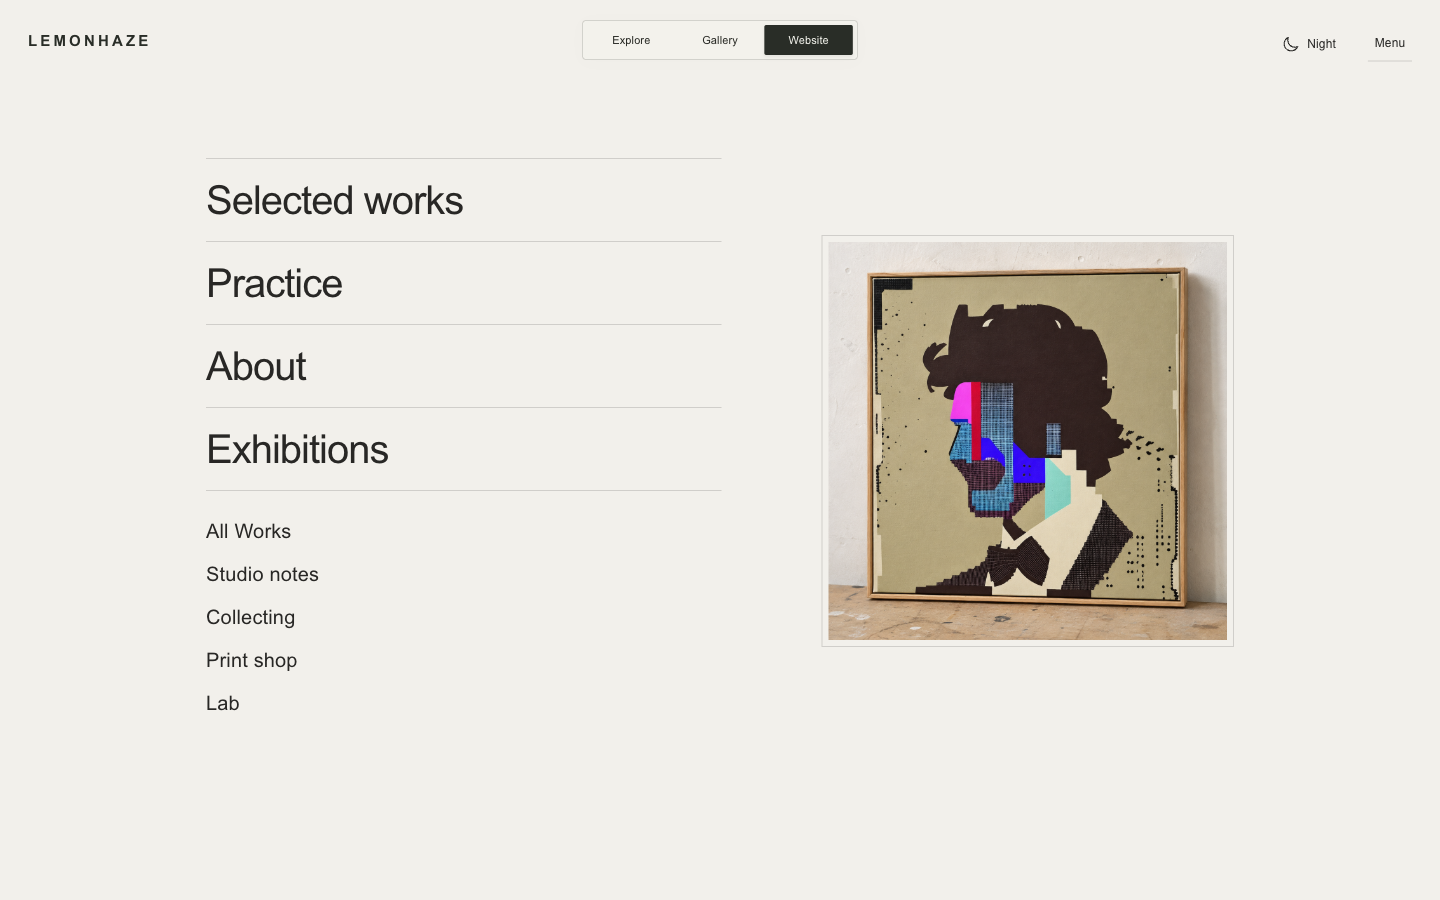
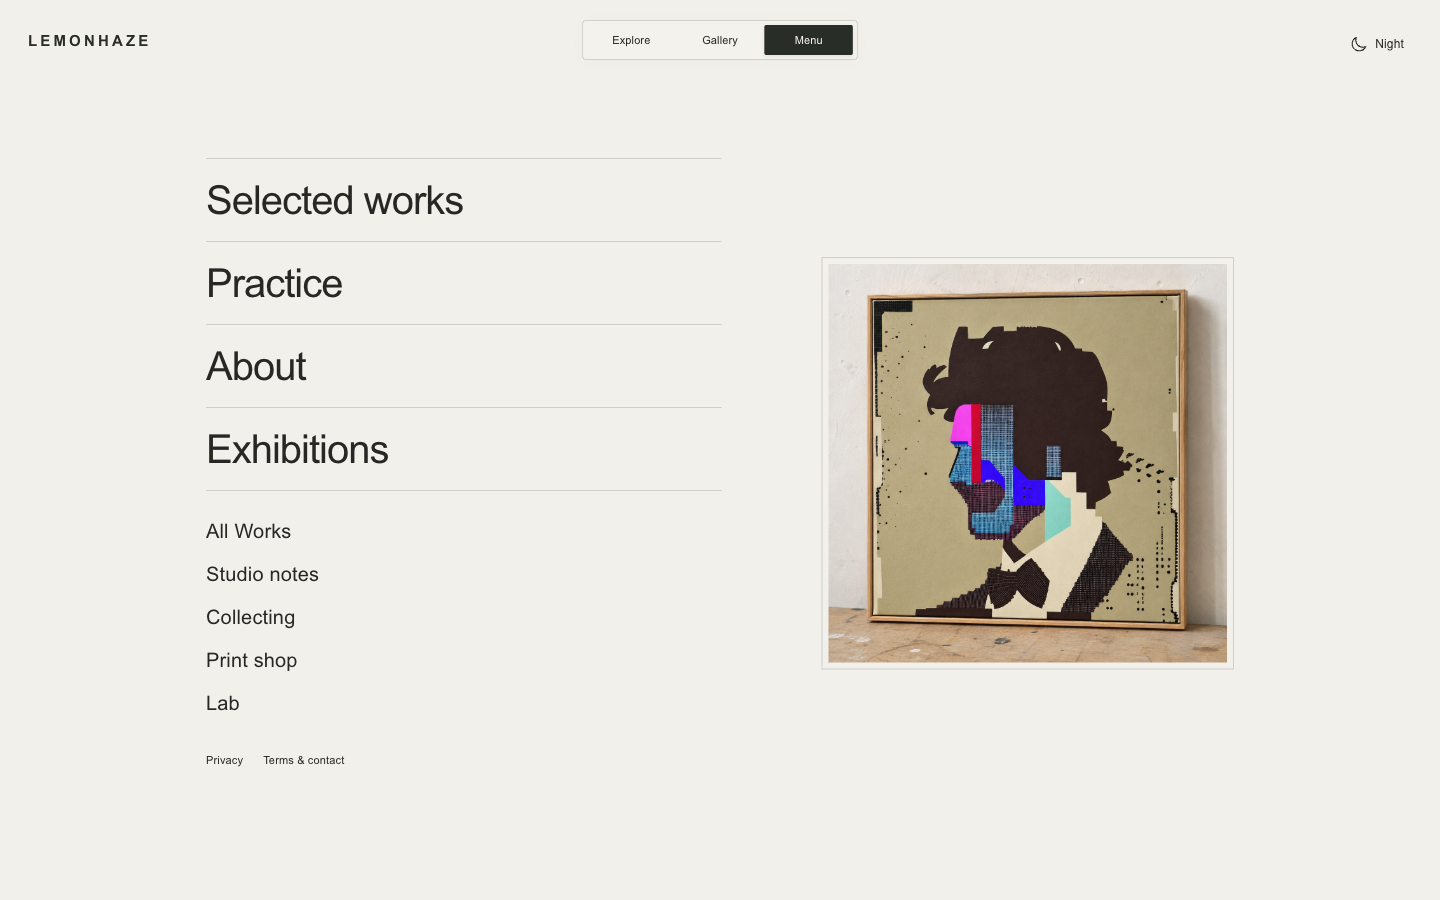
Unify navigation under central Menu and move appearance to the right

Changed region(s): [[0.5625, 0.2489, 0.875, 0.7467], [0.9062, 0.0311, 0.9688, 0.0622], [0.1875, 0.84, 0.2188, 0.8711]]

diff --git a/src/immersive/modes.css b/src/immersive/modes.css
@@ -68,7 +68,6 @@ html[data-view=website] .website-selected img{outline:0;box-shadow:0 0 0 12px va
 @media(max-width:1100px){html[data-view=website] .website-entry-intro{grid-template-columns:1fr}html[data-view=website] .website-entry-intro nav{margin-top:14px}}
 @media(max-width:767px){
  #site-wordmark{left:18px;top:87px;font-size:12px;letter-spacing:.18em}
- html[data-view=website] #menu-toggle{position:fixed;top:72px;right:14px;z-index:161;margin:0;background:var(--page);color:var(--ink);border:1px solid var(--line);border-radius:2px}
  html[data-view=website] body>main>header.site-header{display:flex;min-height:154px;padding:124px 22px 12px;align-items:center}
  html[data-view=website] body:has(.website-entry) .site-header{height:126px;min-height:126px;padding:0}
  html[data-view=website] #sidebar{top:120px;height:calc(100dvh - 120px);width:min(320px,calc(100vw - 56px));z-index:150}
@@ -95,9 +94,9 @@ html[data-view=website] .website-selected img{outline:0;box-shadow:0 0 0 12px va
 .website-studio-image figcaption{font-size:11px;margin-top:16px;opacity:.65}
 @media(max-width:900px){.website-index{grid-template-columns:1fr;gap:32px}.website-index-pages a{padding:16px 0}.website-studio-image{max-width:360px}.website-studio-image img{max-height:44dvh;object-position:left}}
 
-/* Shared Website navigation: a dismissible drawer, never a second page column. */
+/* Menu in the central mode bar owns navigation; retire the duplicate corner trigger. */
+html body #menu-toggle{display:none!important}
 html:not([data-view=website]) #menu-toggle,html:not([data-view=website]) #mobile-backdrop{display:none!important}
-html[data-view=website] body>#menu-toggle{display:block!important;position:fixed;z-index:165;top:25px;right:28px;margin:0;padding:10px 2px;border:0;border-bottom:1px solid var(--line);border-radius:0;background:var(--page);color:var(--ink);font:12px/1.3 Arial,sans-serif;min-width:44px}
 html[data-view=website][data-presentation] body #sidebar{position:fixed!important;inset:88px 0 0 auto!important;width:min(360px,100vw)!important;min-width:0!important;max-width:100vw!important;height:calc(100dvh - 88px)!important;flex-basis:auto!important;z-index:164;transform:none!important;border-right:0;border-left:1px solid var(--line);visibility:visible;transition:transform .25s}
 html[data-view=website][data-presentation] body #sidebar[class~="-translate-x-full"]{transform:translateX(100%)!important;visibility:hidden;pointer-events:none}
 html[data-view=website][data-presentation] #sidebar>a:first-child{display:none!important}
@@ -117,7 +116,6 @@ html[data-view=website] .website-index-pages a{font-size:clamp(26px,3vw,40px);pa
 html[data-view=website] .website-studio-image img{max-height:58dvh}
 @media(prefers-reduced-motion:reduce){html[data-view=website] #sidebar{transition:none!important}}
 @media(max-width:767px){
- html[data-view=website] body>#menu-toggle{top:77px;right:20px;padding:7px 2px;font-size:12px}
  html[data-view=website][data-presentation] body #sidebar{top:124px!important;height:calc(100dvh - 124px)!important;width:min(360px,100vw)!important}
  html[data-view=website] #mobile-backdrop:not(.hidden){top:124px}
  html[data-view=website] body>main>.site-header{padding:144px 22px 12px;min-height:178px}
@@ -173,13 +171,12 @@ html[data-view=website] #sidebar .all-works-nav[open]{height:calc(92px + var(--y
 .catalogue-cover-group[data-cover-count="2"] img{max-width:calc((100% - 12px)/2)}
 
 /* One appearance switch shared by all modes and retained on navigation. */
-#appearance-toggle{position:fixed;z-index:162;right:96px;top:22px;min-height:44px;padding:8px;border:0;background:var(--page,#f3f3ed);color:var(--ink,#292d27);font:12px/1 Arial,sans-serif;cursor:pointer;display:flex;align-items:center;gap:6px;border-radius:3px}
+#appearance-toggle{position:fixed;z-index:162;right:28px;top:22px;min-height:44px;padding:8px;border:0;background:var(--page,#f3f3ed);color:var(--ink,#292d27);font:12px/1 Arial,sans-serif;cursor:pointer;display:flex;align-items:center;gap:6px;border-radius:3px}
 #appearance-toggle svg{width:20px;height:20px;flex:none}
 #appearance-toggle:focus-visible{outline:2px solid currentColor;outline-offset:2px}
 @media(max-width:767px){
  #appearance-toggle{top:72px;right:12px;width:44px;height:44px;justify-content:center;padding:12px}
  #appearance-toggle span{display:none}
- html[data-view=website] body>#menu-toggle{right:70px}
 }
 #appearance-toggle{background:transparent}
 
@@ -198,3 +195,5 @@ html[data-view=website][data-presentation] body>main>.site-header{background:tra
 html[data-artwork-solo] :is(#view-switch,#site-wordmark,#appearance-toggle,body>#menu-toggle){opacity:0;translate:0 -28px;filter:blur(4px);pointer-events:none}
 @media(prefers-reduced-motion:reduce){#view-switch,#view-switch *,#site-wordmark,#appearance-toggle,body>#menu-toggle{transition:none!important}}
 html[data-motion=reduced] :is(#view-switch,#view-switch *,#site-wordmark,#appearance-toggle,body>#menu-toggle){transition:none!important}
+
+.website-index-policies{display:flex;gap:20px;margin-top:28px;font:11px/1.5 Arial,sans-serif;color:var(--muted)}

diff --git a/src/immersive/modes.js b/src/immersive/modes.js
@@ -11,7 +11,7 @@ export function createViewingModes({ appState, applyWebsite, destroyHome, closeM
     let websiteContext=null,websiteReturn={url:'/?view=website',scroll:0};
     document.querySelector('#view-switch')?.remove();
     const nav=document.createElement('nav');nav.id='view-switch';nav.setAttribute('aria-label','Viewing mode');
-    nav.innerHTML='<i class="view-saddle" aria-hidden="true"></i>'+['explore','gallery','website'].map(view=>`<a href="/?view=${view}" data-view="${view}"><span>${view[0].toUpperCase()+view.slice(1)}</span></a>`).join('');
+    nav.innerHTML='<i class="view-saddle" aria-hidden="true"></i>'+['explore','gallery','website'].map(view=>`<a href="/?view=${view}" data-view="${view}"><span>${view==='website'?'Menu':view[0].toUpperCase()+view.slice(1)}</span></a>`).join('');
     for(const link of nav.querySelectorAll('a')){
         const reset=()=>{link.style.setProperty('--magnet-x','0px');link.style.setProperty('--magnet-y','0px');};
         link.addEventListener('pointermove',event=>{
@@ -97,7 +97,7 @@ export function createViewingModes({ appState, applyWebsite, destroyHome, closeM
         }
     }
     async function switchMode(next) {
-        // The Website tab always means its home, even when a detail is already open there.
+        // The Menu tab always means the website home, even when a detail is already open there.
         if(next==='website'){await toWebsite();return;}
         if(next===mode&&next===viewingMode(new URL(location.href))&&!selected)return;
         save();

diff --git a/src/visualizer/TimelineVisualizer.tsx b/src/visualizer/TimelineVisualizer.tsx
@@ -2555,7 +2555,7 @@ export default function TimelineVisualizer() {
     <main className="visualizer-shell">
       <a id="site-wordmark" href="/?view=explore" aria-label="Lemonhaze — Explore">LEMONHAZE</a>
       <nav id="view-switch" aria-label="Viewing mode">
-        <a href="/?view=explore">Explore</a><a href="/?view=gallery">Gallery</a><a href="/?view=website" aria-current="page">Website</a>
+        <a href="/?view=explore">Explore</a><a href="/?view=gallery">Gallery</a><a href="/?view=website" aria-current="page">Menu</a>
       </nav>
       <button id="appearance-toggle" type="button" onClick={() => setTheme(theme === 'black' ? 'paper' : 'black')} aria-label={theme === 'black' ? 'Switch to day mode' : 'Switch to night mode'} aria-pressed={theme === 'black'}>
         <svg viewBox="0 0 24 24" aria-hidden="true" fill="none" stroke="currentColor" strokeWidth="1.35" strokeLinecap="round" strokeLinejoin="round">{theme === 'black' ? <><circle cx="12" cy="12" r="4"/><path d="M12 2v2m0 16v2M2 12h2m16 0h2M5 5l1.4 1.4m11.2 11.2L19 19M5 19l1.4-1.4M17.6 6.4 19 5"/></> : <path d="M20 15.2A8.5 8.5 0 0 1 8.8 4a8.5 8.5 0 1 0 11.2 11.2Z"/>}</svg>

diff --git a/src/renderers/home/index.js b/src/renderers/home/index.js
@@ -11,6 +11,9 @@ export function renderHomeView({galleryGrid,onNavigate}) {
     const further=document.createElement('nav');further.className='website-further';further.setAttribute('aria-label','Further into the studio');
     further.innerHTML='<a href="/all-works">All Works</a><a href="/archive">Studio notes</a><a href="/collecting">Collecting</a><a href="/shop">Print shop</a><a href="/lab">Lab</a>';
     entry.querySelector('.website-index-navigation').append(further);
+    const policies=document.createElement('nav');policies.className='website-index-policies';policies.setAttribute('aria-label','Policies');
+    policies.innerHTML='<a href="/privacy.html">Privacy</a><a href="/terms.html">Terms &amp; contact</a>';
+    entry.querySelector('.website-index-navigation').append(policies);
     galleryGrid.append(entry);
     const navigate=event=>{
         const link=event.target.closest('a[href]');

diff --git a/src/ui/menu.js b/src/ui/menu.js
@@ -25,7 +25,7 @@ export function prepareWebsiteMenu({sidebar,menuButton,closeMenu,isOpen}) {
     if(!sidebar||!menuButton)return;
     // Keep the control outside page headers, which can be hidden or inert while
     // the shared artwork detail is open. Its position stays constant everywhere.
-    document.body.append(menuButton);menuButton.textContent='Menu';
+    document.body.append(menuButton);menuButton.textContent='Menu';menuButton.hidden=true;
     sidebar.setAttribute('aria-label','Website navigation');sidebar.inert=true;
     document.addEventListener('keydown',event=>{
         if(!isOpen())return;

diff --git a/docs/immersive/ARCHITECTURE.md b/docs/immersive/ARCHITECTURE.md
@@ -13,12 +13,12 @@ Updated November 12, 2026; publication evidence is in [Verification](VERIFICATIO
 | Explore from Gallery | Focus the current Gallery work in the field, without opening detail |
 | Gallery from detail | Centre the selected artwork in its own collection |
 | Choose a new Gallery collection | Enter near its midpoint; later visits restore its position |
-| Website mode switch | Website home with no inherited artwork modal |
+| Menu mode switch | Website home with no inherited artwork modal |
 | Desktop artwork click inside detail | Near-full-screen solo view of the same work |
 | Close or Escape from solo | Same split view, selection and URL; live media stays mounted |
 | Close ordinary detail | Return to its background view; preserve relevant camera/selection state |
 
-`modes.js` owns mode intent and history; `experience.js` coordinates the two background views and detail. Explicit routes use `view`, `work`, `at` and Gallery’s `series`. Generation checks reject obsolete asynchronous mode completions, and inactive views release work. The stable wordmark, mode switch and appearance control are shared across modes. `/explore` remains an editorial redirect to `/practice`; use `/?view=explore` for the field.
+`modes.js` owns mode intent and history; `experience.js` coordinates the two background views and detail. Explicit routes use `view`, `work`, `at` and Gallery’s `series`. Generation checks reject obsolete asynchronous mode completions, and inactive views release work. The stable wordmark, Explore / Gallery / Menu switch and far-right appearance control are shared across modes. Menu opens the Website index; the duplicate corner menu trigger is retired. The index retains all section and policy links, while All Works provides year browsing and Visual chronology. URLs continue to use `view=website`. `/explore` remains an editorial redirect to `/practice`; use `/?view=explore` for the field.
 
 ## Roster and composition
 

diff --git a/CHANGELOG.md b/CHANGELOG.md
@@ -2,7 +2,7 @@
 
 ## 2026-11-12 — Interaction and Website presentation polish
 
-Slimmer squared mode bar with a spring indicator, stronger contained lemon throws, and animated paper/charcoal solo viewing. Desktop Gallery controls occupy opposite lower corners, with a discreet anchored collection picker. Website home uses the artist-selected framed Gentleman Nº1 study and vertical secondary navigation; Studio Notes and Practice imagery/year placement are refined. Satoshi and Deprivation print covers intentionally repeat their originals three times without duplicating the artwork roster. Embedded inscription notes are accessible inside Inscription details, loaded on demand as inert text. [Session and release report](docs/reports/2026-11-12-interaction-polish.md).
+Central Explore / Gallery / Menu navigation with no duplicate corner Menu; day/night moves to the far right. Slimmer squared mode bar with a spring indicator, stronger contained lemon throws, and animated paper/charcoal solo viewing. Desktop Gallery controls occupy opposite lower corners, with a discreet anchored collection picker. Website home uses the artist-selected framed Gentleman Nº1 study and vertical secondary navigation; Studio Notes and Practice imagery/year placement are refined. Satoshi and Deprivation print covers intentionally repeat their originals three times without duplicating the artwork roster. Embedded inscription notes are accessible inside Inscription details, loaded on demand as inert text. [Session and release report](docs/reports/2026-11-12-interaction-polish.md).
 
 ## 2026-11-12 — Artwork focus transitions and Gallery refinement
 

diff --git a/docs/immersive/VERIFICATION.md b/docs/immersive/VERIFICATION.md
@@ -4,7 +4,7 @@
 
 See the [session report](../reports/2026-11-12-interaction-polish.md) for the accepted changes, visual evidence and publication record. Local verification passed; production publication is pending GitHub verification and integration; the previous release remains recorded separately.
 
-- Original squarer mode bar, reduced height, spring indicator; stronger bounded lemon throws; theme-matched animated solo room.
+- Central Explore / Gallery / Menu bar, no duplicate corner Menu, far-right appearance control. Original squarer mode bar, reduced height, spring indicator; stronger bounded lemon throws; theme-matched animated solo room.
 - Desktop Gallery controls at opposite lower corners, with its collection picker anchored beside its control. Gallery scrolling physics are unchanged in this pass.
 - Exact artist-selected workbench image on Website home; secondary links below Exhibitions; Studio Notes signing image; Practice year alignment; intentional edition cover triptychs.
 - Embedded notes inside the existing Inscription details group: lazy text-only HTML retrieval, preserved comment wording, original-source disclosure, cancellation on work changes and retry after failures. Old Fashioned remains static-only.

diff --git a/docs/reports/2026-11-12-interaction-polish.md b/docs/reports/2026-11-12-interaction-polish.md
@@ -12,6 +12,7 @@ The Good Night signing photograph replaces the workstation image introducing Stu
 
 ## Interaction decisions
 
+- **Navigation:** the center bar now reads Explore / Gallery / Menu. Menu returns to the Website index from any view or page; the duplicate top-right trigger is retired, and day/night occupies that far-right position. All Works retains year navigation and Visual chronology; Privacy and Terms & contact remain reachable from the index. Existing URLs still use `view=website`.
 - **Mode switch:** original squared silhouette, 40px desktop / 44px mobile height, spring indicator and restrained mouse attraction on lettering. Links remain stationary; keyboard and reduced-motion behavior are retained.
 - **Explore overview:** the whole field can be thrown with recent pointer velocity. Stronger rebound and lower resistance use substepped simulation, with stable collision bounds independent of visible deformation. Close-up composition and panning are unchanged.
 - **Solo view:** the artwork, live surface and mat move together over 760ms. The room opens in paper by day or charcoal by night. Shared controls retreat and become inert, then return on close. Interrupted transitions and reduced motion are handled.
